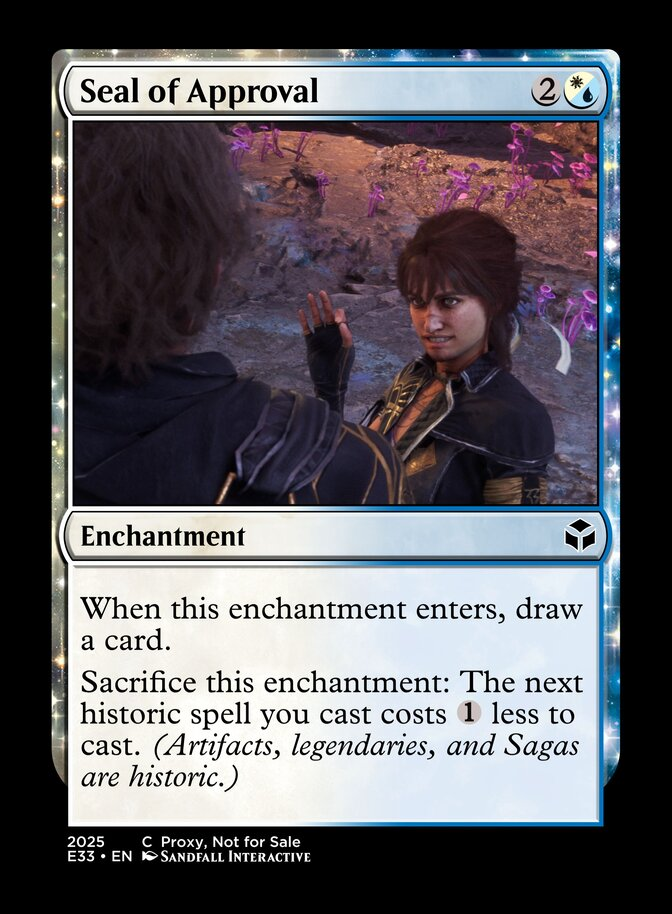
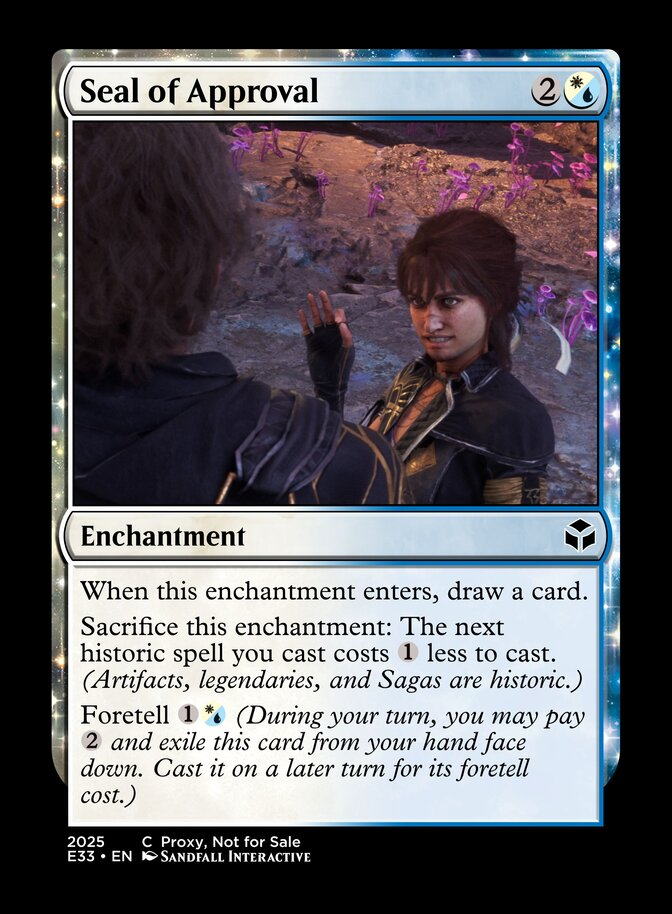
#91: Seal of Approval: Add Foretell

Changed region(s): [[0.125, 0.6127, 0.875, 0.8884]]

diff --git a/design/MULTICOLOR.md b/design/MULTICOLOR.md
@@ -1,6 +1,6 @@
 # Cards
 
-> Last generated: 6/2/2026 11:47:24 am
+> Last generated: 6/2/2026 11:51:12 am
 
 ## A Storm is Coming
 
@@ -2108,6 +2108,7 @@ Death is a friend who will welcome me home
 Enchantment
 When this enchantment enters, draw a card.
 Sacrifice this enchantment: The next historic spell you cast costs {1} less to cast. (Artifacts, legendaries, and Sagas are historic.)
+Foretell {1}{W/U} (During your turn, you may pay {2} and exile this card from your hand face down. Cast it on a later turn for its foretell cost.)
 ```
 
 [card implementation](../custom/cards/s/seal_of_approval.txt)
